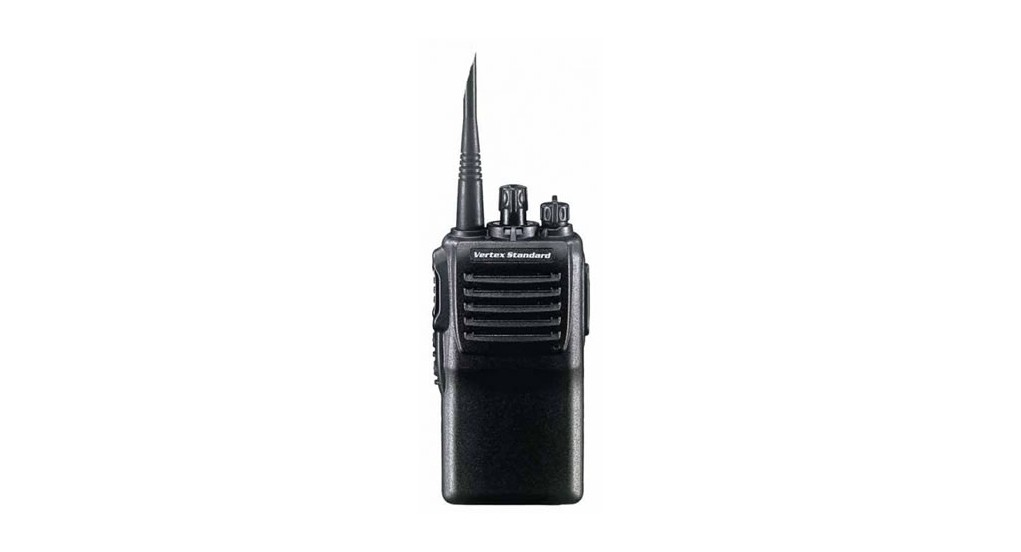
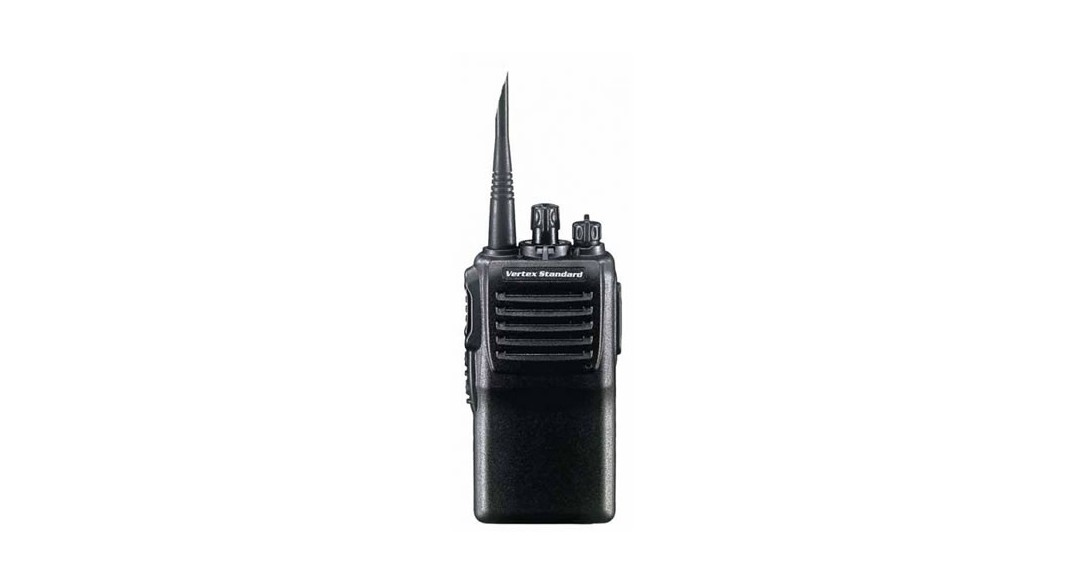
Corrige antena cortada do VX231, centraliza botao Chamar no WhatsApp e ajusta numero
- VX231: recorte com mais margem para nao cortar a ponta da antena
- Botao circular "Chamar no WhatsApp": adiciona justify-content:center
  (icone e texto estavam desalinhados verticalmente)
- Corrige digito errado no numero de WhatsApp da Monica

Changed region(s): [[0.4251, 0.0924, 0.5769, 0.9239]]

diff --git a/styles.css b/styles.css
@@ -264,9 +264,9 @@ main > section{ padding: 110px 24px; max-width:1180px; margin:0 auto; }
 .social-row a:hover{ background: var(--cyan); color: var(--navy); transform: translateY(-3px); }
 
 .contact-cta{
-  position:relative; justify-self:center; display:flex; flex-direction:column; align-items:center; gap:12px;
+  position:relative; justify-self:center; display:flex; flex-direction:column; align-items:center; justify-content:center; gap:12px;
   width:180px; height:180px; border-radius:50%; background: linear-gradient(135deg, var(--blue), var(--cyan));
-  color:#04101a; font-weight:700; font-size:.85rem; text-align:center;
+  color:#04101a; font-weight:700; font-size:.85rem; text-align:center; padding:0 20px;
   transition: transform .35s var(--ease), box-shadow .35s var(--ease);
 }
 .contact-cta:hover{ transform: scale(1.06); box-shadow: 0 20px 50px -14px rgba(22,209,201,.5); }

diff --git a/script.js b/script.js
@@ -1,6 +1,6 @@
 // ---- Config ----
 // Mônica's personal WhatsApp — used for all quote/reservation CTAs on the site.
-const WHATSAPP_NUMBER = "5531996777771";
+const WHATSAPP_NUMBER = "5531999677771";
 
 // ---- Wire up every WhatsApp CTA with a prefilled message ----
 document.querySelectorAll("[data-whatsapp-link]").forEach((el) => {
